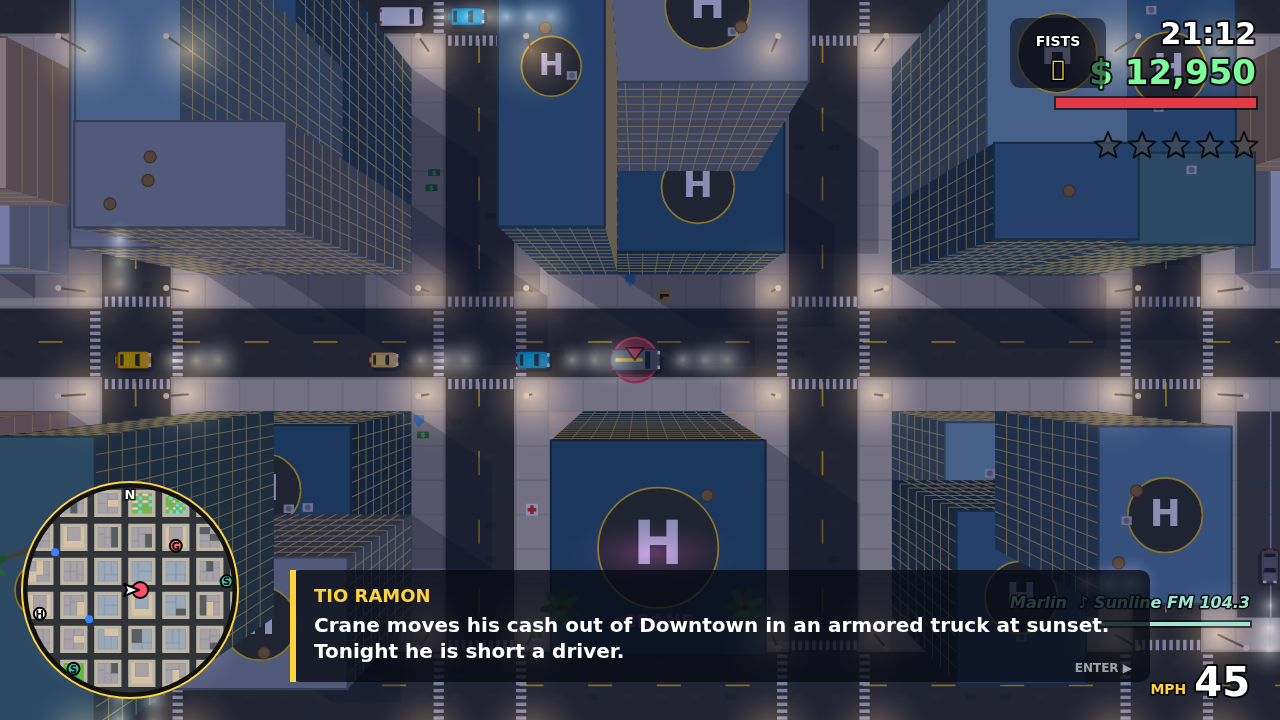
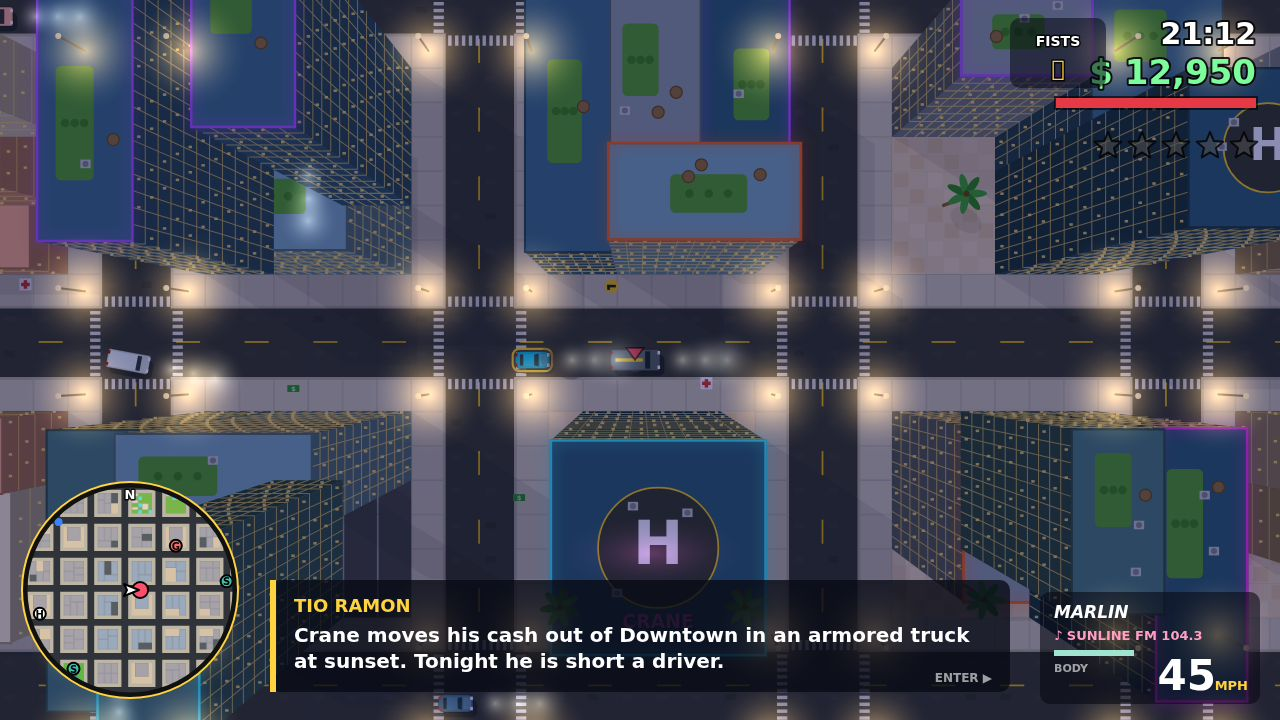
Polish: neon trims, lit windows, muzzle flashes, shadows, HUD plates, traffic gridlock fix, soak test scene

diff --git a/game/src/render.js b/game/src/render.js
@@ -125,11 +125,11 @@ function drawRoadMarks(ctx, tx, ty, x, y) {
 // ---------------- props / buildings ----------------
 const inView = (x, y, m = 120) => x > view.x0 - m && x < view.x1 + m && y > view.y0 - m && y < view.y1 + m;
 
-function drawShadows(ctx) {
-  ctx.fillStyle = 'rgba(20,30,60,0.28)';
+function drawShadows(ctx, night) {
+  ctx.fillStyle = `rgba(20,25,60,${0.38 * (1 - night * 0.8)})`;
   for (const b of city.buildings) {
     if (!inView(b.x + b.w / 2, b.y + b.h / 2, b.w + 300)) continue;
-    const dx = b.height * 0.45, dy = b.height * 0.3;
+    const dx = b.height * 0.6, dy = b.height * 0.38;
     ctx.beginPath();
     ctx.moveTo(b.x, b.y); ctx.lineTo(b.x + b.w, b.y); ctx.lineTo(b.x + b.w + dx, b.y + dy);
     ctx.lineTo(b.x + b.w + dx, b.y + b.h + dy); ctx.lineTo(b.x + dx, b.y + b.h + dy); ctx.lineTo(b.x, b.y + b.h);
@@ -170,12 +170,23 @@ function drawBuilding(ctx, b, night) {
       }
     }
     ctx.stroke();
+    if (night > 0.4 && b.kind !== 'container' && b.kind !== 'house') { // lit windows
+      ctx.fillStyle = `rgba(255,220,130,${0.5 + night * 0.4})`;
+      const cols = Math.max(2, Math.round(Math.hypot(a1[0] - a0[0], a1[1] - a0[1]) / 12));
+      for (let f = 0; f < floors; f++) for (let s2 = 0; s2 < cols; s2++) {
+        if (((f * 7 + s2 * 13 + Math.floor(b.x)) % 5) > 1) continue;
+        const t = (f + 0.5) / floors, u = (s2 + 0.5) / cols;
+        const px = lerp(lerp(a0[0], a1[0], u), lerp(r0[0], r1[0], u), t), py = lerp(lerp(a0[1], a1[1], u), lerp(r0[1], r1[1], u), t);
+        ctx.fillRect(px - 2, py - 1.5, 4, 3);
+      }
+    }
   }
   // roof
   const rc = b.roof || shade(b.color, 1.06);
   ctx.fillStyle = rc;
   ctx.beginPath(); roof.forEach(([x, y], i) => (i ? ctx.lineTo(x, y) : ctx.moveTo(x, y))); ctx.closePath(); ctx.fill();
   ctx.strokeStyle = shade(b.roof || b.color, 0.7); ctx.lineWidth = 2.5; ctx.stroke();
+  if (night > 0.35 && b.neon) { ctx.strokeStyle = b.neon; ctx.lineWidth = 3; ctx.shadowColor = b.neon; ctx.shadowBlur = 14; ctx.stroke(); ctx.shadowBlur = 0; }
   const [rx, ry] = roof[0], rw = roof[1][0] - rx, rh = roof[3][1] - ry;
   if (b.kind === 'house') { // hip roof ridge
     ctx.strokeStyle = shade(b.roof, 0.8); ctx.lineWidth = 1.5; ctx.beginPath();
@@ -189,6 +200,7 @@ function drawBuilding(ctx, b, night) {
     const dx = rx + rw * (d.x ?? 0.5), dy = ry + rh * (d.y ?? 0.5);
     if (d.t === 'ac') { ctx.fillStyle = '#c9ccd1'; ctx.fillRect(dx - 6, dy - 5, 12, 10); ctx.fillStyle = '#8a8f96'; ctx.beginPath(); ctx.arc(dx, dy, 3.5, 0, 6.28); ctx.fill(); }
     else if (d.t === 'tank') { ctx.fillStyle = '#9b7653'; ctx.beginPath(); ctx.arc(dx, dy, 7, 0, 6.28); ctx.fill(); ctx.strokeStyle = '#6e5238'; ctx.lineWidth = 1.5; ctx.stroke(); }
+    else if (d.t === 'garden') { ctx.fillStyle = '#5aa64a'; ctx.beginPath(); ctx.roundRect(dx - rw * 0.2, dy - rh * 0.2, rw * 0.4, rh * 0.4, 6); ctx.fill(); ctx.fillStyle = '#3f8a3a'; for (let k = 0; k < 3; k++) { ctx.beginPath(); ctx.arc(dx - rw * 0.1 + k * rw * 0.1, dy, 5, 0, 6.28); ctx.fill(); } }
     else if (d.t === 'pool') { ctx.fillStyle = '#4fd8ee'; ctx.fillRect(dx - rw * 0.15, dy - rh * 0.12, rw * 0.3, rh * 0.24); ctx.strokeStyle = '#fff'; ctx.lineWidth = 2; ctx.strokeRect(dx - rw * 0.15, dy - rh * 0.12, rw * 0.3, rh * 0.24); }
     else if (d.t === 'heli') {
       const hx = rx + rw / 2, hy = ry + rh / 2, r = Math.min(rw, rh) * 0.28;
@@ -248,10 +260,11 @@ function rrect(ctx, x, y, w, h, r) { ctx.beginPath(); ctx.roundRect(x, y, w, h, 
 function drawCar(ctx, c, night) {
   const L = c.len, Wd = c.wid;
   ctx.save(); ctx.translate(c.x, c.y); ctx.rotate(c.a);
-  ctx.fillStyle = 'rgba(10,20,40,0.35)'; rrect(ctx, -L / 2 + 3, -Wd / 2 + 4, L, Wd, 6); ctx.fill();
+  ctx.fillStyle = 'rgba(10,20,40,0.42)'; rrect(ctx, -L / 2 + 5, -Wd / 2 + 6, L, Wd, 6); ctx.fill();
   const body = c.dead ? '#2a2a2a' : c.color;
   ctx.fillStyle = body; rrect(ctx, -L / 2, -Wd / 2, L, Wd, c.type === 'van' || c.type === 'armored' ? 3 : 6); ctx.fill();
   ctx.strokeStyle = 'rgba(0,0,0,0.35)'; ctx.lineWidth = 1; ctx.stroke();
+  if (c.driver === G.player) { ctx.strokeStyle = 'rgba(255,210,63,0.95)'; ctx.lineWidth = 2.5; rrect(ctx, -L / 2 - 3, -Wd / 2 - 3, L + 6, Wd + 6, 8); ctx.stroke(); }
   if (c.type === 'police' && !c.dead) { ctx.fillStyle = '#f4f4f4'; ctx.fillRect(-L * 0.12, -Wd / 2, L * 0.3, Wd); }
   if (c.type === 'van' || c.type === 'armored') {
     ctx.fillStyle = c.dead ? '#333' : shade(c.color.startsWith('#') ? c.color : '#888888', 1.12); ctx.fillRect(-L / 2 + 2, -Wd / 2 + 2, L * 0.68, Wd - 4);
@@ -321,6 +334,7 @@ function drawMarkers(ctx, markers) {
   for (const m of markers) {
     if (!inView(m.x, m.y)) continue;
     const pulse = 0.5 + 0.5 * Math.sin(G.t * 4);
+    if (m.ent) { ctx.strokeStyle = m.c; ctx.lineWidth = 2; ctx.beginPath(); ctx.arc(m.x, m.y, 12 + pulse * 2, 0, 6.28); ctx.stroke(); continue; }
     ctx.globalAlpha = 0.35 + pulse * 0.25; ctx.fillStyle = m.c;
     ctx.beginPath(); ctx.arc(m.x, m.y, m.svc ? 18 : 24, 0, 6.28); ctx.fill();
     ctx.globalAlpha = 1; ctx.strokeStyle = m.c; ctx.lineWidth = 3; ctx.beginPath(); ctx.arc(m.x, m.y, (m.svc ? 18 : 24) + pulse * 4, 0, 6.28); ctx.stroke();
@@ -329,7 +343,7 @@ function drawMarkers(ctx, markers) {
 function drawMarkerArrows(ctx, markers) {
   for (const m of markers) {
     if (!inView(m.x, m.y) || m.svc) continue;
-    const [ax, ay] = proj(m.x, m.y, 60 + Math.sin(G.t * 3) * 8);
+    const [ax, ay] = proj(m.x, m.y, (m.ent ? 30 : 60) + Math.sin(G.t * 3) * 8);
     ctx.fillStyle = m.c; ctx.strokeStyle = 'rgba(0,0,0,0.6)'; ctx.lineWidth = 2;
     ctx.beginPath(); ctx.moveTo(ax - 10, ay - 14); ctx.lineTo(ax + 10, ay - 14); ctx.lineTo(ax, ay); ctx.closePath(); ctx.fill(); ctx.stroke();
   }
@@ -342,6 +356,7 @@ function drawParticles(ctx, layer) {
     else if (layer === 'high') {
       if (p.type === 'smoke') { ctx.fillStyle = `rgba(70,70,75,${a * 0.45})`; ctx.beginPath(); ctx.arc(p.x, p.y, p.size, 0, 6.28); ctx.fill(); }
       else if (p.type === 'fire') { ctx.fillStyle = a > 0.5 ? `rgba(255,220,90,${a})` : `rgba(255,110,30,${a})`; ctx.beginPath(); ctx.arc(p.x, p.y, p.size * (1.5 + (1 - a)), 0, 6.28); ctx.fill(); }
+      else if (p.type === 'flash') { ctx.fillStyle = `rgba(255,245,180,${a})`; ctx.beginPath(); ctx.arc(p.x, p.y, 7 * a + 2, 0, 6.28); ctx.fill(); }
       else if (p.type === 'spark') { ctx.fillStyle = `rgba(255,230,140,${a})`; ctx.fillRect(p.x, p.y, 2.5, 2.5); }
     }
   }
@@ -370,13 +385,13 @@ export function renderWorld(ctx, markers = []) {
   ctx.globalAlpha = 1;
   drawMarkers(ctx, markers);
   for (const k of G.pickups) if (!k.hide && inView(k.x, k.y)) drawPickup(ctx, k);
-  drawShadows(ctx);
+  drawShadows(ctx, sky.night);
   drawParticles(ctx, 'low');
   for (const p of G.peds) if (p.dead && inView(p.x, p.y)) drawPed(ctx, p);
   for (const p of G.peds) if (!p.dead && inView(p.x, p.y)) drawPed(ctx, p);
   for (const c of G.cars) if (inView(c.x, c.y)) drawCar(ctx, c, sky.night);
-  ctx.lineWidth = 2;
-  for (const t of G.tracers) { ctx.strokeStyle = `rgba(255,240,170,${t.t / 0.07})`; ctx.beginPath(); ctx.moveTo(t.x1, t.y1); ctx.lineTo(t.x2, t.y2); ctx.stroke(); }
+  ctx.lineWidth = 2.5;
+  for (const t of G.tracers) { ctx.strokeStyle = `rgba(255,236,150,${t.t / 0.07})`; ctx.beginPath(); ctx.moveTo(t.x1, t.y1); ctx.lineTo(t.x2, t.y2); ctx.stroke(); }
   drawParticles(ctx, 'high');
   const vis = city.buildings.filter((b) => inView(b.x + b.w / 2, b.y + b.h / 2, b.w / 2 + 260));
   vis.sort((a, b) => a.height - b.height);
@@ -394,7 +409,7 @@ export function renderWorld(ctx, markers = []) {
   if (sky.night > 0.05) {
     ctx.setTransform(z, 0, 0, z, w / 2 - G.cam.x * z + sx, h / 2 - G.cam.y * z + sy);
     ctx.globalCompositeOperation = 'lighter'; ctx.globalAlpha = sky.night * 0.75;
-    const lamp = glow('rgba(255,200,110,0.55)');
+    const lamp = glow('rgba(255,196,96,0.95)');
     for (const p of city.props) if (p.type === 'lamp' && inView(p.x, p.y)) ctx.drawImage(lamp, p.x - 70, p.y - 70, 140, 140);
     const head = glow('rgba(255,250,215,0.5)');
     for (const c of G.cars) {

diff --git a/game/src/hud.js b/game/src/hud.js
@@ -107,16 +107,24 @@ export function drawHUD(ctx, markers) {
   }
   if (pl.car) {
     const mph = Math.round(Math.hypot(pl.car.vx, pl.car.vy) * 0.16);
-    text(ctx, `${mph}`, w - 30, h - 24, 40, '#ffffff', 'right');
-    text(ctx, 'MPH', w - 30 - ctx.measureText(`${mph}`).width - 8, h - 26, 14, '#ffd23f', 'right', '900 ', 3);
-    text(ctx, `${pl.car.t.name}${G.radio ? '  \u266A Sunline FM 104.3' : ''}`, w - 30, h - 112, 16, '#9fe3d0', 'right', 'italic 900 ', 3);
+    panel(ctx, w - 240, h - 128, 220, 112, 0.6);
+    text(ctx, pl.car.t.name.toUpperCase(), w - 226, h - 102, 17, '#ffffff', 'left', 'italic 900 ', 0);
+    if (G.radio) text(ctx, '\u266A SUNLINE FM 104.3', w - 226, h - 80, 13, '#ff9fc4', 'left', '900 ', 0);
+    text(ctx, `${mph}`, w - 64, h - 30, 42, '#ffffff', 'right', '900 ', 0);
+    text(ctx, 'MPH', w - 32, h - 30, 13, '#ffd23f', 'right', '900 ', 0);
     const hp = pl.car.hp / pl.car.maxHp;
-    ctx.fillStyle = 'rgba(0,0,0,0.6)'; ctx.fillRect(w - 182, h - 100, 154, 8);
-    ctx.fillStyle = hp > 0.5 ? '#9fe3d0' : hp > 0.25 ? '#ffd23f' : '#ff4d4d'; ctx.fillRect(w - 180, h - 98, 150 * clamp(hp, 0, 1), 4);
+    ctx.fillStyle = 'rgba(255,255,255,0.15)'; ctx.fillRect(w - 226, h - 70, 80, 6);
+    ctx.fillStyle = hp > 0.5 ? '#9fe3d0' : hp > 0.25 ? '#ffd23f' : '#ff4d4d'; ctx.fillRect(w - 226, h - 70, 80 * clamp(hp, 0, 1), 6);
+    text(ctx, 'BODY', w - 226, h - 48, 11, 'rgba(255,255,255,0.6)', 'left', '900 ', 0);
   }
   // messages
   let my = 40;
-  for (const m of G.msgs) { ctx.globalAlpha = clamp(m.t, 0, 1); text(ctx, m.text, 24, my, 17, m.color, 'left', '700 ', 4); my += 26; }
+  for (const m of G.msgs) {
+    ctx.globalAlpha = clamp(m.t, 0, 1);
+    ctx.font = '700 17px "Arial Black", Impact, sans-serif';
+    panel(ctx, 14, my - 20, ctx.measureText(m.text).width + 22, 28, 0.55);
+    text(ctx, m.text, 25, my, 17, m.color, 'left', '700 ', 0); my += 34;
+  }
   ctx.globalAlpha = 1;
   // objective
   if (G.objective && !G.dialog) {
@@ -146,7 +154,7 @@ export function drawHUD(ctx, markers) {
 
 function drawDialog(ctx) {
   const { w, h } = G.screen, d = G.dialog, [who, line] = d.lines[d.i];
-  const bw = Math.min(860, w - 320), bx = (w - bw) / 2 + 80, by = h - 150;
+  const bw = Math.min(820, w - 540), bx = (w - bw) / 2, by = h - 140;
   panel(ctx, bx, by, bw, 112, 0.78);
   ctx.fillStyle = '#ffd23f'; ctx.fillRect(bx, by, 6, 112);
   text(ctx, who.toUpperCase(), bx + 24, by + 32, 18, who.startsWith('Nina') ? '#9fe3d0' : '#ffd23f', 'left', '900 ', 0);
@@ -212,7 +220,7 @@ export function drawTitle(ctx, hasSave, sel) {
     if (on) { panel(ctx, w / 2 - 150, y - 32, 300, 44, 0.65); }
     text(ctx, (on ? '\u25B6 ' : '') + s, w / 2, y, 28, on ? '#ffd23f' : '#ffffff', 'center', '900 ', 5);
   });
-  CONTROLS.forEach((l, i) => text(ctx, l, w / 2, h - 86 + i * 24, 15, 'rgba(255,255,255,0.85)', 'center', '700 ', 3));
+  text(ctx, 'WASD drive/walk  \u2022  MOUSE aim & shoot  \u2022  F steal car  \u2022  M map  \u2022  ESC pause', w / 2, h - 40, 14, 'rgba(255,255,255,0.8)', 'center', '700 ', 3);
   text(ctx, 'ENTER to start  \u2022  an original game: every city, name and story is made up', w / 2, h - 12, 12, 'rgba(255,255,255,0.6)', 'center', '700 ', 0);
 }
 

diff --git a/game/src/missions.js b/game/src/missions.js
@@ -89,7 +89,7 @@ export const MISSIONS = [
       say('Got a Pistol (Q/E to switch weapons)', '#ffd23f');
       G.story.data.gang = [];
       for (let k = 0; k < 6; k++) {
-        const g = makePed('gang', 8.2 * T + (k % 2) * 30, 58 * T + k * 34, { weapon: k % 3 === 0 ? 'smg' : 'pistol', hp: 80 });
+        const g = makePed('gang', 7.8 * T + (k % 2) * 60, 56 * T + k * 70, { weapon: k % 3 === 0 ? 'smg' : 'pistol', hp: 80 });
         g.mission = true; g.hostile = false; g.home = { x: g.x, y: g.y }; G.story.data.gang.push(g);
       }
     },
@@ -97,7 +97,7 @@ export const MISSIONS = [
       const left = G.story.data.gang.filter((g) => !g.dead);
       for (const g of left) if (dist(g.x, g.y, G.player.x, G.player.y) < 260) g.hostile = true;
       if (left.length === 0) return 'pass';
-      return { obj: `Take out Los Tiburones on Sunline Beach (${left.length} left)`, targets: left.map((g) => ({ x: g.x, y: g.y, c: '#ff4d6d', label: '' })) };
+      return { obj: `Take out Los Tiburones on Sunline Beach (${left.length} left)`, targets: left.map((g) => ({ x: g.x, y: g.y, c: '#ff4d6d', label: '', ent: true })) };
     },
     outro: [['Tio Ramon', 'The beach is ours again. Crane will send someone. Let him.']],
   },
@@ -139,7 +139,7 @@ export const MISSIONS = [
           G.story.stage = 1; setWanted(4); puff(c.x, c.y, 'smoke', 20, 60);
           G.story.data.bag = { x: c.x - Math.sin(c.a) * 30, y: c.y + Math.cos(c.a) * 30 };
           say('The truck is down! Grab the cash!', '#ffd23f');
-        } else return { obj: 'Ram or shoot the armored truck until it stops', targets: [{ x: c.x, y: c.y, c: '#ff4d6d', label: 'Truck' }], bar: c.hp / c.maxHp };
+        } else return { obj: 'Ram or shoot the armored truck until it stops', targets: [{ x: c.x, y: c.y, c: '#ff4d6d', label: 'Truck', ent: true }], bar: c.hp / c.maxHp };
       }
       if (G.story.stage === 1) {
         if (near(G.player, G.story.data.bag, 30) || (G.player.car && near(G.player.car, G.story.data.bag, 40))) { G.story.stage = 2; sfx('cash'); say('Got the money bags!', '#7CFC9A'); }

diff --git a/game/src/city.js b/game/src/city.js
@@ -86,10 +86,12 @@ function addBuilding(x0, y0, w, h, height, color, opts = {}) {
   const b = {
     x: x0 * T, y: y0 * T, w: w * T, h: h * T, height, color,
     roof: opts.roof || null, kind: opts.kind || 'block', sign: opts.sign || null,
-    details: [],
+    details: [], neon: null,
   };
+  if ((opts.kind === 'tower' || opts.kind === 'hotel' || opts.kind === 'landmark') && chance(0.55)) b.neon = pick(['#ff3df0', '#3df5ff', '#ff6b3d', '#b45cff']);
   // rooftop clutter: AC boxes, water tanks, helipad, pool
-  if (b.kind === 'tower' && w * h >= 9) b.details.push({ t: 'heli' });
+  if (b.kind === 'tower' && w * h >= 9 && height > 280 && chance(0.4)) b.details.push({ t: 'heli' });
+  if (b.kind === 'tower' && !b.details.length) b.details.push({ t: 'garden', x: rr(0.3, 0.6), y: rr(0.3, 0.6) });
   if (b.kind === 'hotel' && w >= 3 && h >= 3) b.details.push({ t: 'pool', x: rr(0.25, 0.45), y: rr(0.25, 0.45) });
   const n = b.kind === 'house' ? 0 : ri(1, 3);
   for (let i = 0; i < n; i++) b.details.push({ t: chance(0.5) ? 'ac' : 'tank', x: rr(0.15, 0.8), y: rr(0.15, 0.8) });
@@ -123,8 +125,7 @@ function buildBlock(bx, by) {
     const kind = lm.id === 'tower' ? 'tower' : 'landmark';
     const b = addBuilding(x0 + 1, y0, 4, 4, tall, lm.color, { sign: lm.sign, kind });
     b.landmark = lm.id;
-    lm.marker = { x: (bx * 10 + 5) * T + T / 2 - T / 2 + T, y: (by * 10 + 8) * T + T / 2 };
-    lm.marker.x = (bx * 10 + 6) * T; // centred on the plaza in front of the door
+    lm.marker = { x: (bx * 10 + 6) * T, y: (by * 10 + 8) * T + T / 2 }; // plaza in front of the door
     city.landmarks[lm.id] = { ...lm };
     prop('palm', x0 + 0.5, y0 + 5.2); prop('palm', x0 + 5.5, y0 + 5.2);
     if (lm.id === 'mansion') { fillRect(x0 + 1, y0 + 4, 2, 1, TILE.POOL); }

diff --git a/game/src/main.js b/game/src/main.js
@@ -263,7 +263,10 @@ function tick(dt) {
 function draw() {
   const markers = G.mode === 'title' ? [] : worldMarkers();
   renderWorld(ctx, markers);
-  if (G.mode === 'title') { drawTitle(ctx, !!titleSave, titleSel); return; }
+  if (G.mode === 'title') {
+    ctx.filter = 'blur(3px) saturate(1.25)'; ctx.drawImage(canvas, 0, 0); ctx.filter = 'none';
+    drawTitle(ctx, !!titleSave, titleSel); return;
+  }
   drawHUD(ctx, markers);
   if (G.mode === 'map') drawFullMap(ctx, markers);
   if (G.mode === 'pause') drawPause(ctx);
@@ -308,9 +311,16 @@ const SHOTS = {
     input.auto = { throttle: 0.55, steer: laneFollow(n.y + 20) };
     return 50;
   },
+  soak() { // not a screenshot: a long automated drive with the police after you, to catch runtime errors
+    startGame(null); G.dialog = null; setWanted(4);
+    const c = makeCar('sports', G.player.x + 30, G.player.y + 100, Math.PI / 2); G.player.car = c; c.driver = G.player;
+    input.auto = { throttle: 1, steer: () => Math.sin(G.t * 0.6) * 0.8 };
+    setTimeout(() => { document.title = JSON.stringify({ t: G.t.toFixed(0), mode: G.mode, cars: G.cars.length, peds: G.peds.length, cops: G.cars.filter((q) => q.type === 'police').length, stars: G.wanted.level, hp: Math.round(G.player.hp), parts: G.particles.length }); }, 0);
+    return 3600;
+  },
   title() {
     resetWorld(5); placePlayer(13 * T, 40 * T); G.player.hidden = true; spawnParked(); spawnInitial();
-    G.clock = 18.1 * 60; G.mode = 'title'; titleSave = null;
+    G.clock = 18.9 * 60; G.mode = 'title'; titleSave = null;
     return 90;
   },
 };

diff --git a/game/src/ai.js b/game/src/ai.js
@@ -66,11 +66,15 @@ function pickNext(ai) {
 function blockedAhead(c, range) {
   const fx = Math.cos(c.a), fy = Math.sin(c.a);
   for (const o of G.cars) {
-    if (o === c || o.dead && false) continue;
+    if (o === c) continue;
     const dx = o.x - c.x, dy = o.y - c.y;
     const along = dx * fx + dy * fy;
     if (along <= 0 || along > range) continue;
-    if (Math.abs(-dx * fy + dy * fx) < 18) return o;
+    if (Math.abs(-dx * fy + dy * fx) >= 18) continue;
+    // cross traffic only blocks when it is right in front of the bumper
+    const facing = Math.cos(o.a) * fx + Math.sin(o.a) * fy;
+    if (Math.abs(facing) < 0.5 && along > c.len / 2 + 22) continue;
+    return o;
   }
   for (const p of G.peds) {
     if (p.dead || p.car) continue;
@@ -100,7 +104,10 @@ function updateTraffic(c, dt) {
   const tx = A.x + sx * look, ty = A.y + sy * look;
   let want = ai.angry > 0 ? ai.cruise * 1.6 : ai.cruise;
   if ((1 - t) * L < 90) want = Math.min(want, 110);
-  const block = blockedAhead(c, 75);
+  let block = blockedAhead(c, 75);
+  // impatience: after waiting a while, nose forward anyway (breaks intersection gridlock)
+  if (block && !(block === G.player || block.driver === G.player)) { ai.wait = (ai.wait || 0) + dt; if (ai.wait > 2.5 && ai.wait < 4) block = null; if (ai.wait >= 4) ai.wait = 0; }
+  else if (!block) ai.wait = 0;
   if (block) {
     want = 0;
     if (block === G.player || block.driver === G.player) { if (chance(0.01)) { c.honk = 0.5; sfx('horn', 0.4); } }

diff --git a/game/src/entities.js b/game/src/entities.js
@@ -50,7 +50,7 @@ export function makePed(role, x, y, opts = {}) {
 export function puff(x, y, type, n = 1, spd = 60) {
   for (let i = 0; i < n; i++) {
     const a = rand() * 6.28, s = rr(0.2, 1) * spd;
-    const life = type === 'smoke' ? rr(0.8, 1.8) : type === 'fire' ? rr(0.3, 0.7) : rr(0.15, 0.5);
+    const life = type === 'flash' ? 0.06 : type === 'smoke' ? rr(0.8, 1.8) : type === 'fire' ? rr(0.3, 0.7) : rr(0.15, 0.5);
     G.particles.push({ x, y, vx: Math.cos(a) * s, vy: Math.sin(a) * s, life, max: life, type, size: type === 'smoke' ? rr(6, 14) : rr(2, 5) });
   }
   if (G.particles.length > 700) G.particles.splice(0, G.particles.length - 700);
@@ -116,6 +116,7 @@ export function driveCar(c, dt, throttle, steer, handbrake = false) {
     if (G.skids.length > 400) G.skids.shift();
     if (chance(0.3)) puff(c.x - fx * c.len * 0.4, c.y - fy * c.len * 0.4, 'smoke', 1, 20);
   }
+  if (throttle > 0.9 && fwd > 20 && fwd < t.max * 0.35 && chance(0.35)) puff(c.x - fx * c.len * 0.45, c.y - fy * c.len * 0.45, 'smoke', 1, 25);
   moveCar(c, dt);
 }
 
@@ -271,6 +272,7 @@ export function fire(shooter, angle) {
     if (hitSomething) break;
   }
   G.tracers.push({ x1: sx, y1: sy, x2: ex, y2: ey, t: 0.07 });
+  G.particles.push({ x: sx, y: sy, vx: 0, vy: 0, life: 0.06, max: 0.06, type: 'flash', size: 6 });
   puff(sx, sy, 'spark', 2, 50);
   if (shooter === G.player) hooks.crime(0.12, sx, sy, 'shots');
   // gunfire scares everyone nearby
